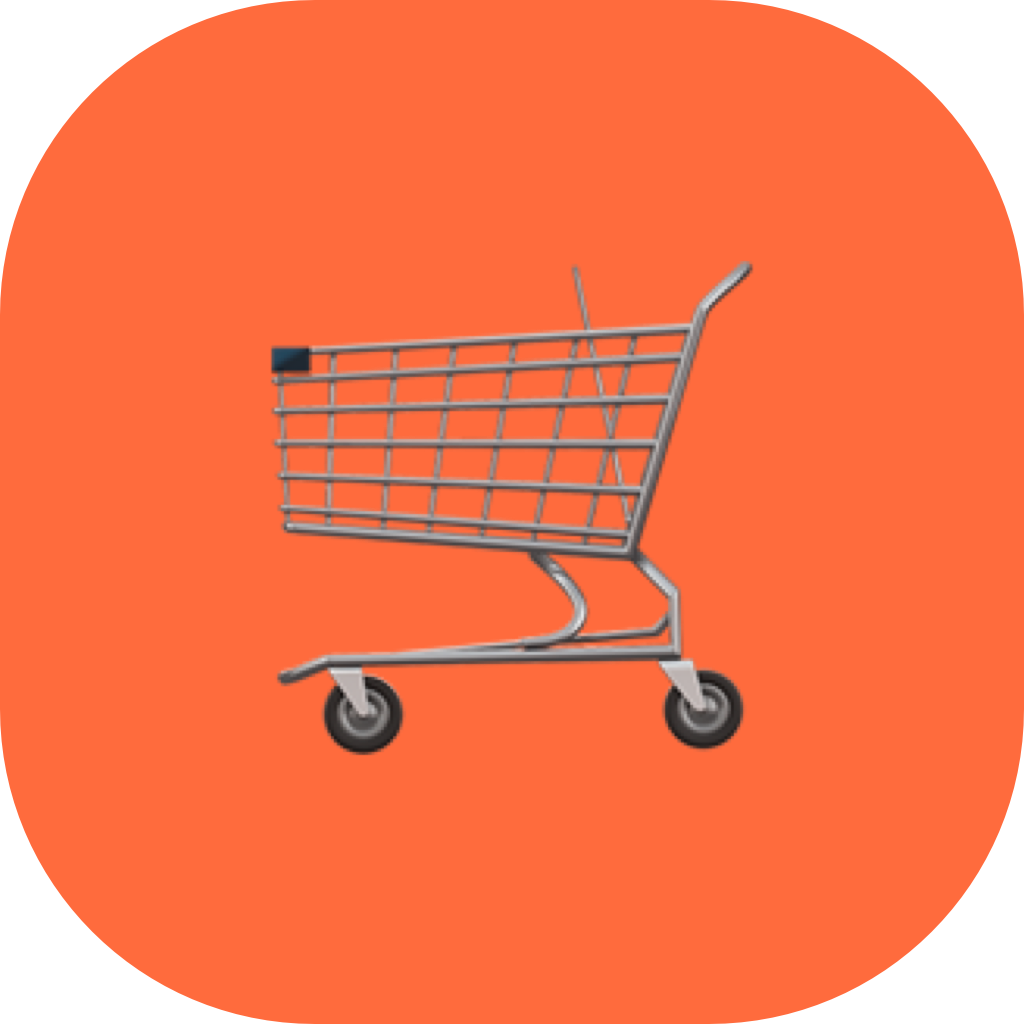
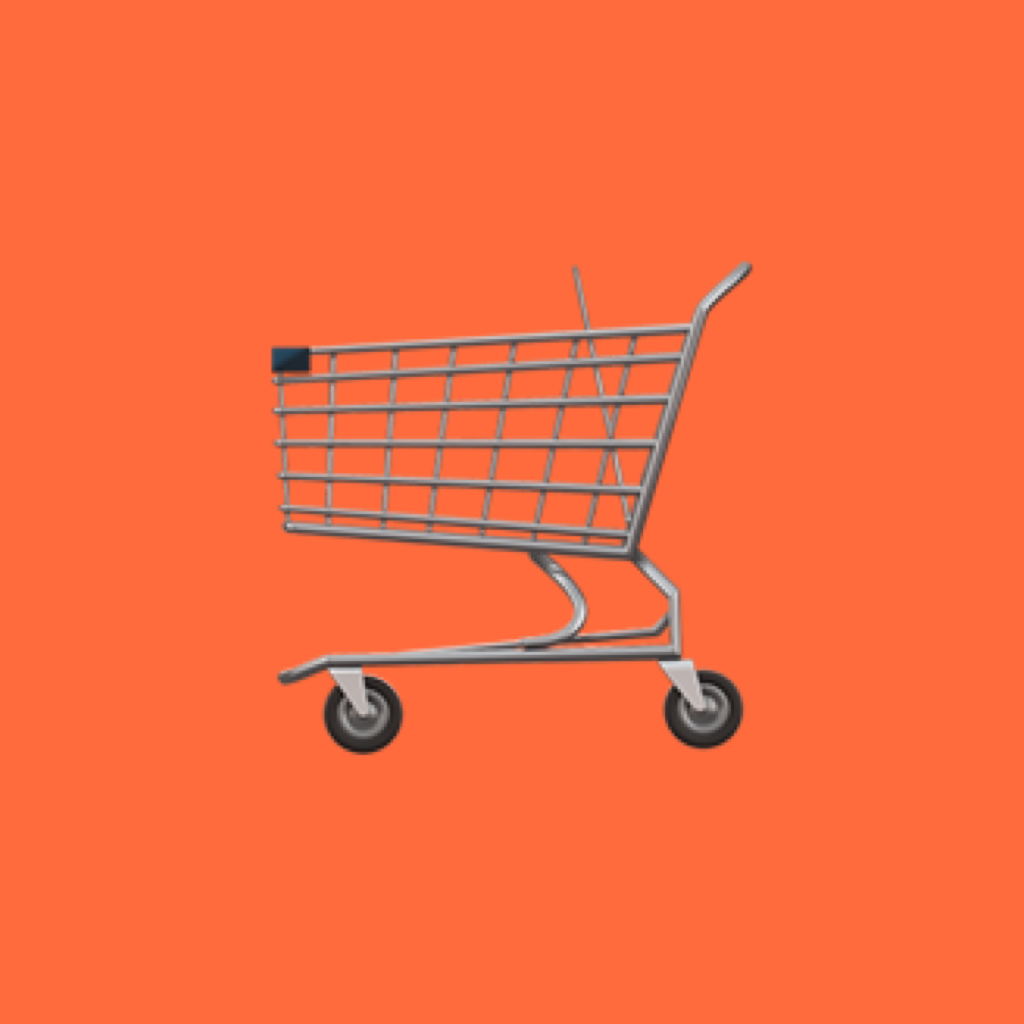
Android 向けの設定・アイコン画像を削除し、iOS 専用に整理
- app.json から android ブロック（アダプティブアイコン・権限など）を削除
- Android 用アイコン画像3点と、使われていない空フォルダを削除
- RevenueCat の API キーを iOS 用のみ使うように整理
- 言語判定から Android 用の処理を削除
- package.json の android スクリプトと .env.example の Android キー例を削除

diff --git a/lib/purchases.ts b/lib/purchases.ts
@@ -12,7 +12,6 @@ import {
 import { getAppLocale } from './i18n';
 
 const IOS_API_KEY = process.env.EXPO_PUBLIC_REVENUECAT_IOS_API_KEY;
-const ANDROID_API_KEY = process.env.EXPO_PUBLIC_REVENUECAT_ANDROID_API_KEY;
 
 export type PaywallOutcome = 'purchased' | 'restored' | 'cancelled' | 'error' | 'unavailable';
 
@@ -54,12 +53,9 @@ export function configurePurchases(): void {
 
   Purchases.setLogLevel(__DEV__ ? LOG_LEVEL.VERBOSE : LOG_LEVEL.INFO);
 
-  // Test Store の test_ キーは1つで両OS共用。片方だけ設定しても動くようにする。
-  const apiKey =
-    (Platform.OS === 'ios' ? IOS_API_KEY : ANDROID_API_KEY) || IOS_API_KEY || ANDROID_API_KEY;
-  if (apiKey) {
+  if (IOS_API_KEY) {
     Purchases.configure({
-      apiKey,
+      apiKey: IOS_API_KEY,
       preferredUILocaleOverride: revenueCatUILocale(),
     });
   }
@@ -159,9 +155,7 @@ export async function logCustomerInfo(tag = 'RevenueCat'): Promise<void> {
 export async function presentPaywall(): Promise<PaywallOutcome> {
   if (Platform.OS === 'web') return 'unavailable';
 
-  const apiKey =
-    (Platform.OS === 'ios' ? IOS_API_KEY : ANDROID_API_KEY) || IOS_API_KEY || ANDROID_API_KEY;
-  if (!apiKey) return 'unavailable';
+  if (!IOS_API_KEY) return 'unavailable';
 
   try {
     await syncPaywallLocale();

diff --git a/lib/i18n.ts b/lib/i18n.ts
@@ -1,4 +1,4 @@
-import { NativeModules, Platform, Settings } from 'react-native';
+import { Platform, Settings } from 'react-native';
 
 export type AppLocale = 'ja' | 'en';
 
@@ -18,17 +18,6 @@ function detectLanguageTag(): string {
       if (typeof appleLocale === 'string' && appleLocale) {
         return appleLocale;
       }
-    } catch {
-      // ignore
-    }
-  }
-
-  if (Platform.OS === 'android') {
-    try {
-      const locale =
-        NativeModules.I18nManager?.localeIdentifier ??
-        NativeModules.I18nManager?.getConstants?.()?.localeIdentifier;
-      if (typeof locale === 'string' && locale.length > 0) return locale;
     } catch {
       // ignore
     }
